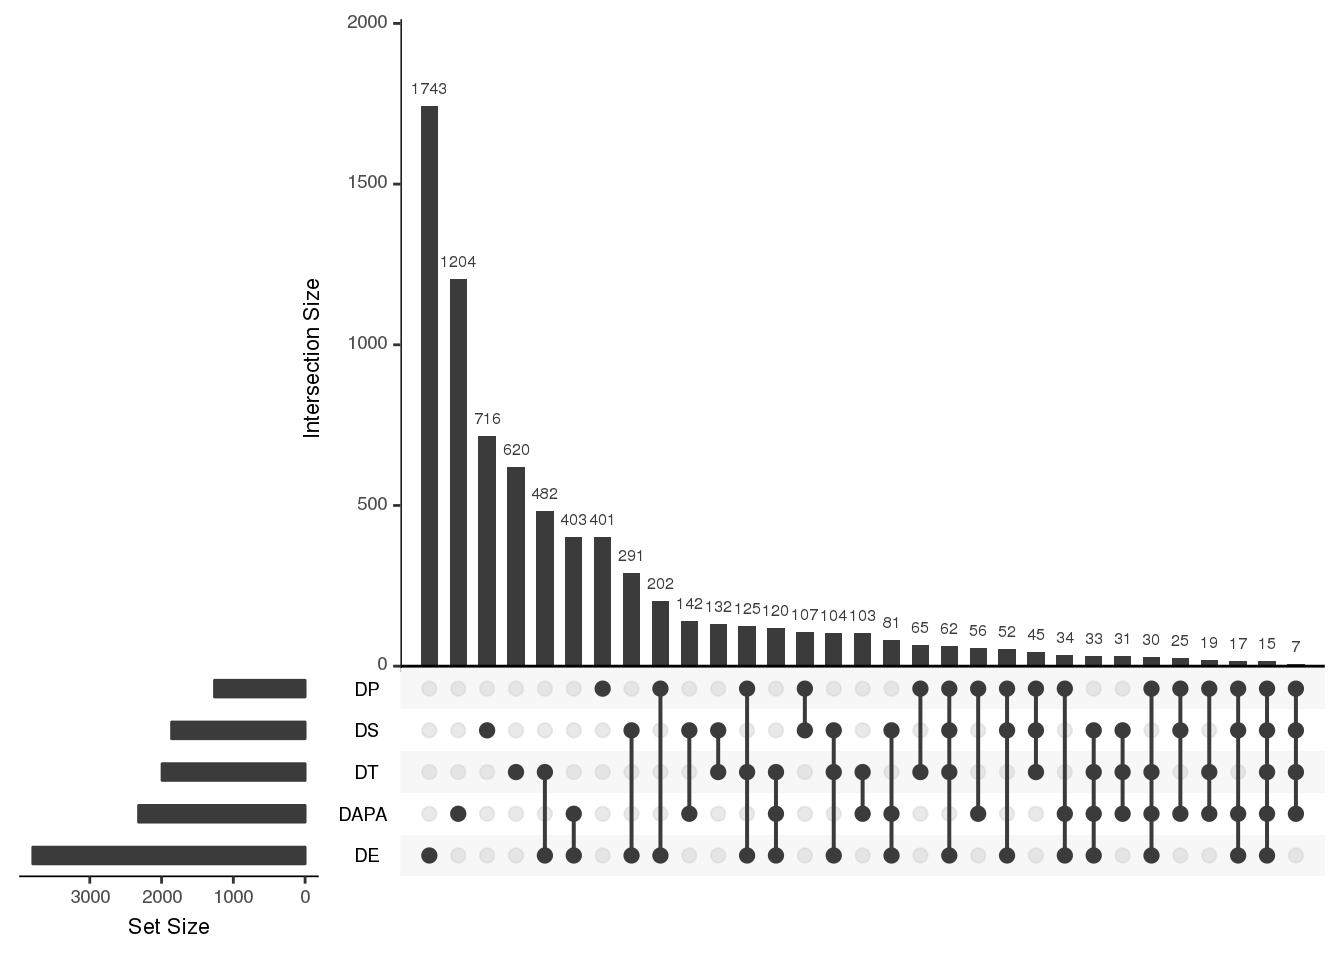
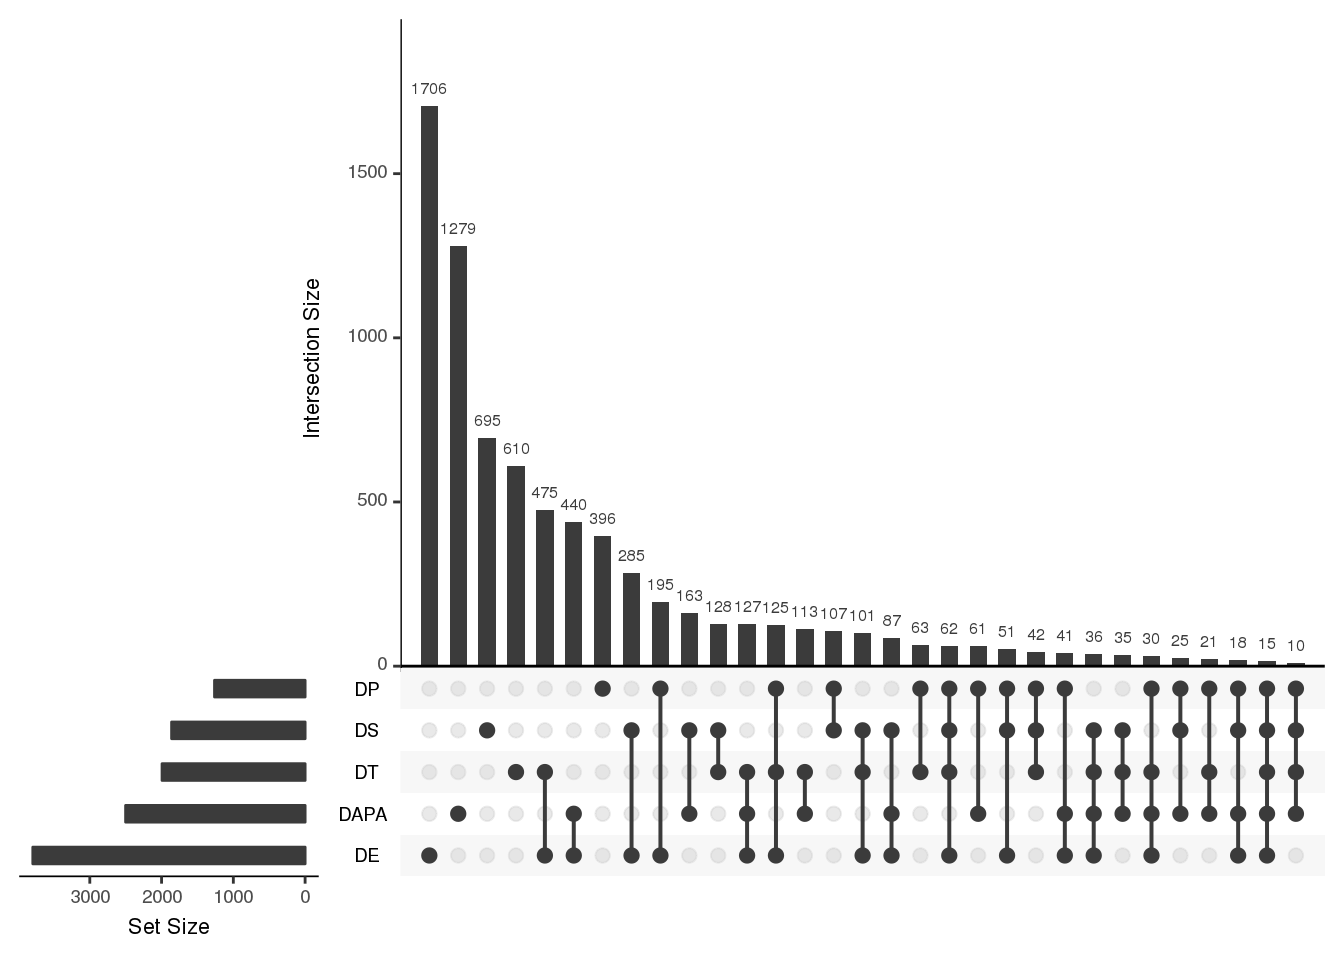
Build site.

diff --git a/docs/upsetter.html b/docs/upsetter.html
@@ -434,10 +434,10 @@ This reproducible <a href="http://rmarkdown.rstudio.com">R Markdown</a> analysis
 <div class="panel panel-default">
 <div class="panel-heading">
 <p class="panel-title">
-<a data-toggle="collapse" data-parent="#workflowr-checks" href="#strongRepositoryversionstrongahrefhttpsgithubcombrimittlemanComparativeAPAtree521dc81b697b863aced8fd0e9c3d687d3870782dtargetblank521dc81a"> <span class="glyphicon glyphicon-ok text-success" aria-hidden="true"></span> <strong>Repository version:</strong> <a href="https://github.com/brimittleman/Comparative_APA/tree/521dc81b697b863aced8fd0e9c3d687d3870782d" target="_blank">521dc81</a> </a>
+<a data-toggle="collapse" data-parent="#workflowr-checks" href="#strongRepositoryversionstrongahrefhttpsgithubcombrimittlemanComparativeAPAtree3aee984f7420f857de61a077c365259510226d2ctargetblank3aee984a"> <span class="glyphicon glyphicon-ok text-success" aria-hidden="true"></span> <strong>Repository version:</strong> <a href="https://github.com/brimittleman/Comparative_APA/tree/3aee984f7420f857de61a077c365259510226d2c" target="_blank">3aee984</a> </a>
 </p>
 </div>
[2 lines of base64/hex data omitted]
 <div class="panel-body">
 <p>
 Great! You are using Git for version control. Tracking code development and connecting the code version to the results is critical for reproducibility. The version displayed above was the version of the Git repository at the time these results were generated. <br><br> Note that you need to be careful to ensure that all relevant files for the analysis have been committed to Git prior to generating the results (you can use <code>wflow_publish</code> or <code>wflow_git_commit</code>). workflowr only checks the R Markdown file, but you know if there are other scripts or data files that it depends on. Below is the status of the Git repository when the results were generated:
@@ -1022,6 +1022,40 @@ Message
 Rmd
 </td>
 <td>
+<a href="https://github.com/brimittleman/Comparative_APA/blob/3aee984f7420f857de61a077c365259510226d2c/analysis/upsetter.Rmd" target="_blank">3aee984</a>
+</td>
+<td>
+brimittleman
+</td>
+<td>
+2020-01-10
+</td>
+<td>
+delta pau and sig
+</td>
+</tr>
+<tr>
+<td>
+html
+</td>
+<td>
+<a href="https://rawcdn.githack.com/brimittleman/Comparative_APA/417783c24259ffe80b5906725bce6ee4a55a12cb/docs/upsetter.html" target="_blank">417783c</a>
+</td>
+<td>
+brimittleman
+</td>
+<td>
+2020-01-10
+</td>
+<td>
+Build site.
+</td>
+</tr>
+<tr>
+<td>
+Rmd
+</td>
+<td>
 <a href="https://github.com/brimittleman/Comparative_APA/blob/521dc81b697b863aced8fd0e9c3d687d3870782d/analysis/upsetter.Rmd" target="_blank">521dc81</a>
 </td>
 <td>
@@ -1098,9 +1132,9 @@ Translation=read.table(&quot;../data/Wang_ribo/HC_SigTranslation.txt&quot;, head
 nameID=read.table(&quot;../../genome_anotation_data/ensemble_to_genename.txt&quot;,sep=&quot;\t&quot;, header = T, stringsAsFactors = F)
 DEgenes=read.table(&quot;../data/DiffExpression/DE_genes.txt&quot;, header = F,col.names = c(&quot;Gene_stable_ID&quot;),stringsAsFactors = F) %&gt;% inner_join(nameID, by=&quot;Gene_stable_ID&quot;) %&gt;% dplyr::select(Gene.name)
 #nuclear apa  
-NucAPA=read.table(&quot;../data/DiffIso_Nuclear/SignifianceEitherPAS_2_Nuclear.txt&quot;,header = T,stringsAsFactors = F)
+NucAPA=read.table(&quot;../data/DiffIso_Nuclear/SignifianceEitherGENES_Nuclear.txt&quot;,header = T,stringsAsFactors = F)
 #totalAPA  
-totAPA=read.table(&quot;../data/DiffIso_Total/SignifianceEitherPAS_2_Total.txt&quot;,header = T,stringsAsFactors = F)
+totAPA=read.table(&quot;../data/DiffIso_Total/SignifianceEitherGENES_Total.txt&quot;,header = T,stringsAsFactors = F)
 DSgenes=read.table(&quot;../data/DiffSplice_liftedJunc/orderedGeneListFixed.txt&quot;,stringsAsFactors = F, col.names = &quot;DS&quot;)</code></pre>
 <p>Create a named list object</p>
 <pre class="r"><code># example of list input (list of named vectors)
@@ -1130,6 +1164,17 @@ Date
 </tr>
 </thead>
 <tbody>
+<tr>
+<td>
+<a href="https://github.com/brimittleman/Comparative_APA/blob/417783c24259ffe80b5906725bce6ee4a55a12cb/docs/figure/upsetter.Rmd/unnamed-chunk-4-1.png" target="_blank">417783c</a>
+</td>
+<td>
+brimittleman
+</td>
+<td>
+2020-01-10
+</td>
+</tr>
 <tr>
 <td>
 <a href="https://github.com/brimittleman/Comparative_APA/blob/4c87e962435f44f7059b09a4b9647ac5aa9ab9b2/docs/figure/upsetter.Rmd/unnamed-chunk-4-1.png" target="_blank">4c87e96</a>
@@ -1172,6 +1217,17 @@ Date
 </tr>
 </thead>
 <tbody>
+<tr>
+<td>
+<a href="https://github.com/brimittleman/Comparative_APA/blob/417783c24259ffe80b5906725bce6ee4a55a12cb/docs/figure/upsetter.Rmd/unnamed-chunk-5-1.png" target="_blank">417783c</a>
+</td>
+<td>
+brimittleman
+</td>
+<td>
+2020-01-10
+</td>
+</tr>
 <tr>
 <td>
 <a href="https://github.com/brimittleman/Comparative_APA/blob/4c87e962435f44f7059b09a4b9647ac5aa9ab9b2/docs/figure/upsetter.Rmd/unnamed-chunk-5-1.png" target="_blank">4c87e96</a>
@@ -1218,6 +1274,17 @@ Date
 </tr>
 </thead>
 <tbody>
+<tr>
+<td>
+<a href="https://github.com/brimittleman/Comparative_APA/blob/417783c24259ffe80b5906725bce6ee4a55a12cb/docs/figure/upsetter.Rmd/unnamed-chunk-6-1.png" target="_blank">417783c</a>
+</td>
+<td>
+brimittleman
+</td>
+<td>
+2020-01-10
+</td>
+</tr>
 <tr>
 <td>
 <a href="https://github.com/brimittleman/Comparative_APA/blob/4c87e962435f44f7059b09a4b9647ac5aa9ab9b2/docs/figure/upsetter.Rmd/unnamed-chunk-6-1.png" target="_blank">4c87e96</a>

diff --git a/docs/Total_HvC.html b/docs/Total_HvC.html
@@ -435,10 +435,10 @@ This reproducible <a href="http://rmarkdown.rstudio.com">R Markdown</a> analysis
 <div class="panel panel-default">
 <div class="panel-heading">
 <p class="panel-title">
-<a data-toggle="collapse" data-parent="#workflowr-checks" href="#strongRepositoryversionstrongahrefhttpsgithubcombrimittlemanComparativeAPAtree521dc81b697b863aced8fd0e9c3d687d3870782dtargetblank521dc81a"> <span class="glyphicon glyphicon-ok text-success" aria-hidden="true"></span> <strong>Repository version:</strong> <a href="https://github.com/brimittleman/Comparative_APA/tree/521dc81b697b863aced8fd0e9c3d687d3870782d" target="_blank">521dc81</a> </a>
+<a data-toggle="collapse" data-parent="#workflowr-checks" href="#strongRepositoryversionstrongahrefhttpsgithubcombrimittlemanComparativeAPAtree3aee984f7420f857de61a077c365259510226d2ctargetblank3aee984a"> <span class="glyphicon glyphicon-ok text-success" aria-hidden="true"></span> <strong>Repository version:</strong> <a href="https://github.com/brimittleman/Comparative_APA/tree/3aee984f7420f857de61a077c365259510226d2c" target="_blank">3aee984</a> </a>
 </p>
 </div>
[2 lines of base64/hex data omitted]
 <div class="panel-body">
 <p>
 Great! You are using Git for version control. Tracking code development and connecting the code version to the results is critical for reproducibility. The version displayed above was the version of the Git repository at the time these results were generated. <br><br> Note that you need to be careful to ensure that all relevant files for the analysis have been committed to Git prior to generating the results (you can use <code>wflow_publish</code> or <code>wflow_git_commit</code>). workflowr only checks the R Markdown file, but you know if there are other scripts or data files that it depends on. Below is the status of the Git repository when the results were generated:
@@ -1023,6 +1023,40 @@ Message
 Rmd
 </td>
 <td>
+<a href="https://github.com/brimittleman/Comparative_APA/blob/3aee984f7420f857de61a077c365259510226d2c/analysis/Total_HvC.Rmd" target="_blank">3aee984</a>
+</td>
+<td>
+brimittleman
+</td>
+<td>
+2020-01-10
+</td>
+<td>
+delta pau and sig
+</td>
+</tr>
+<tr>
+<td>
+html
+</td>
+<td>
+<a href="https://rawcdn.githack.com/brimittleman/Comparative_APA/417783c24259ffe80b5906725bce6ee4a55a12cb/docs/Total_HvC.html" target="_blank">417783c</a>
+</td>
+<td>
+brimittleman
+</td>
+<td>
+2020-01-10
+</td>
+<td>
+Build site.
+</td>
+</tr>
+<tr>
+<td>
+Rmd
+</td>
+<td>
 <a href="https://github.com/brimittleman/Comparative_APA/blob/521dc81b697b863aced8fd0e9c3d687d3870782d/analysis/Total_HvC.Rmd" target="_blank">521dc81</a>
 </td>
 <td>
@@ -1448,14 +1482,27 @@ brimittleman
 </div>
 </div>
 <p>Write out the significant genes with &gt;.2 difference.</p>
+<pre class="r"><code>effectsize_sep_pval=effectsize_sep %&gt;% full_join(sig_geneP, by=&quot;gene&quot;)
+#significant &gt; .2
+effectsize_sep_pval_sig= effectsize_sep_pval %&gt;% filter(p.adjust &lt;= .05,abs(deltaPAU) &gt;=0.2)
+nrow(effectsize_sep_pval_sig)</code></pre>
+<pre><code>[1] 2685</code></pre>
+<pre class="r"><code>#genes
+effectsize_sep_pval_sig_genes=effectsize_sep_pval_sig %&gt;% dplyr::select(gene) %&gt;% unique()
+nrow(effectsize_sep_pval_sig_genes)</code></pre>
+<pre><code>[1] 1784</code></pre>
 <pre class="r"><code>effectsize_wES_chimpOnly= effectsize_wES %&gt;% filter(Species==&quot;Chimp&quot;)
 effectsize_wES_HumanOnly= effectsize_wES %&gt;% filter(Species==&quot;Human&quot;)
-effectsize_wES_either=effectsize_wES %&gt;% filter(Species!=&quot;Neither&quot;)
+
 
 write.table(effectsize_wES_chimpOnly,&quot;../data/DiffIso_Total/SignifianceChimpPAS_2_Total.txt&quot;,col.names =T, row.names = F,quote = F)
 
 write.table(effectsize_wES_HumanOnly,&quot;../data/DiffIso_Total/SignifianceHumanPAS_2_Total.txt&quot;,col.names =T, row.names = F,quote = F)
-write.table(effectsize_wES_HumanOnly,&quot;../data/DiffIso_Total/SignifianceEitherPAS_2_Total.txt&quot;,col.names =T, row.names = F,quote = F)</code></pre>
+
+
+write.table(effectsize_sep_pval_sig,&quot;../data/DiffIso_Total/SignifianceEitherPAS_2_Total.txt&quot;,col.names =T, row.names = F,quote = F)
+
+write.table(effectsize_sep_pval_sig_genes,&quot;../data/DiffIso_Total/SignifianceEitherGENES_Total.txt&quot;,col.names =T, row.names = F,quote = F)</code></pre>
 <br>
 <p>
 <button type="button" class="btn btn-default btn-workflowr btn-workflowr-sessioninfo" data-toggle="collapse" data-target="#workflowr-sessioninfo" style="display: block;">

diff --git a/docs/Nuclear_HvC.html b/docs/Nuclear_HvC.html
@@ -434,10 +434,10 @@ This reproducible <a href="http://rmarkdown.rstudio.com">R Markdown</a> analysis
 <div class="panel panel-default">
 <div class="panel-heading">
 <p class="panel-title">
-<a data-toggle="collapse" data-parent="#workflowr-checks" href="#strongRepositoryversionstrongahrefhttpsgithubcombrimittlemanComparativeAPAtree521dc81b697b863aced8fd0e9c3d687d3870782dtargetblank521dc81a"> <span class="glyphicon glyphicon-ok text-success" aria-hidden="true"></span> <strong>Repository version:</strong> <a href="https://github.com/brimittleman/Comparative_APA/tree/521dc81b697b863aced8fd0e9c3d687d3870782d" target="_blank">521dc81</a> </a>
+<a data-toggle="collapse" data-parent="#workflowr-checks" href="#strongRepositoryversionstrongahrefhttpsgithubcombrimittlemanComparativeAPAtree3aee984f7420f857de61a077c365259510226d2ctargetblank3aee984a"> <span class="glyphicon glyphicon-ok text-success" aria-hidden="true"></span> <strong>Repository version:</strong> <a href="https://github.com/brimittleman/Comparative_APA/tree/3aee984f7420f857de61a077c365259510226d2c" target="_blank">3aee984</a> </a>
 </p>
 </div>
[2 lines of base64/hex data omitted]
 <div class="panel-body">
 <p>
 Great! You are using Git for version control. Tracking code development and connecting the code version to the results is critical for reproducibility. The version displayed above was the version of the Git repository at the time these results were generated. <br><br> Note that you need to be careful to ensure that all relevant files for the analysis have been committed to Git prior to generating the results (you can use <code>wflow_publish</code> or <code>wflow_git_commit</code>). workflowr only checks the R Markdown file, but you know if there are other scripts or data files that it depends on. Below is the status of the Git repository when the results were generated:
@@ -1017,6 +1017,40 @@ Message
 </tr>
 </thead>
 <tbody>
+<tr>
+<td>
+Rmd
+</td>
+<td>
+<a href="https://github.com/brimittleman/Comparative_APA/blob/3aee984f7420f857de61a077c365259510226d2c/analysis/Nuclear_HvC.Rmd" target="_blank">3aee984</a>
+</td>
+<td>
+brimittleman
+</td>
+<td>
+2020-01-10
+</td>
+<td>
+delta pau and sig
+</td>
+</tr>
+<tr>
+<td>
+html
+</td>
+<td>
+<a href="https://rawcdn.githack.com/brimittleman/Comparative_APA/417783c24259ffe80b5906725bce6ee4a55a12cb/docs/Nuclear_HvC.html" target="_blank">417783c</a>
+</td>
+<td>
+brimittleman
+</td>
+<td>
+2020-01-10
+</td>
+<td>
+Build site.
+</td>
+</tr>
 <tr>
 <td>
 Rmd
@@ -1705,9 +1739,18 @@ brimittleman
 </div>
 </div>
 <p>Write out the significant genes with &gt;.2 difference.</p>
+<pre class="r"><code>effectsize_sep_pval=effectsize_sep %&gt;% full_join(sig_geneP, by=&quot;gene&quot;)
+#significant &gt; .2
+effectsize_sep_pval_sig= effectsize_sep_pval %&gt;% filter(p.adjust &lt;= .05,abs(deltaPAU) &gt;=0.2)
+nrow(effectsize_sep_pval_sig)</code></pre>
+<pre><code>[1] 3616</code></pre>
+<pre class="r"><code>#genes
+effectsize_sep_pval_sig_genes=effectsize_sep_pval_sig %&gt;% dplyr::select(gene) %&gt;% unique()
+nrow(effectsize_sep_pval_sig_genes)</code></pre>
+<pre><code>[1] 2501</code></pre>
 <pre class="r"><code>effectsize_wES_chimpOnly= effectsize_wES %&gt;% filter(Species==&quot;Chimp&quot;)
 effectsize_wES_HumanOnly= effectsize_wES %&gt;% filter(Species==&quot;Human&quot;)
-effectsize_wES_either=effectsize_wES %&gt;% filter(Species!=&quot;Neither&quot;)
+
 
 
   
@@ -1715,8 +1758,9 @@ write.table(effectsize_wES_chimpOnly,&quot;../data/DiffIso_Nuclear/SignifianceCh
 
 write.table(effectsize_wES_HumanOnly,&quot;../data/DiffIso_Nuclear/SignifianceHumanPAS_2_Nuclear.txt&quot;,col.names =T, row.names = F,quote = F)
 
-write.table(effectsize_wES_either,&quot;../data/DiffIso_Nuclear/SignifianceEitherPAS_2_Nuclear.txt&quot;,col.names =T, row.names = F,quote = F)</code></pre>
-<p>Number of genes with &gt;.2 DPAS</p>
+write.table(effectsize_sep_pval_sig,&quot;../data/DiffIso_Nuclear/SignifianceEitherPAS_2_Nuclear.txt&quot;,col.names =T, row.names = F,quote = F)
+
+write.table(effectsize_sep_pval_sig_genes,&quot;../data/DiffIso_Nuclear/SignifianceEitherGENES_Nuclear.txt&quot;,col.names =T, row.names = F,quote = F)</code></pre>
 <br>
 <p>
 <button type="button" class="btn btn-default btn-workflowr btn-workflowr-sessioninfo" data-toggle="collapse" data-target="#workflowr-sessioninfo" style="display: block;">
